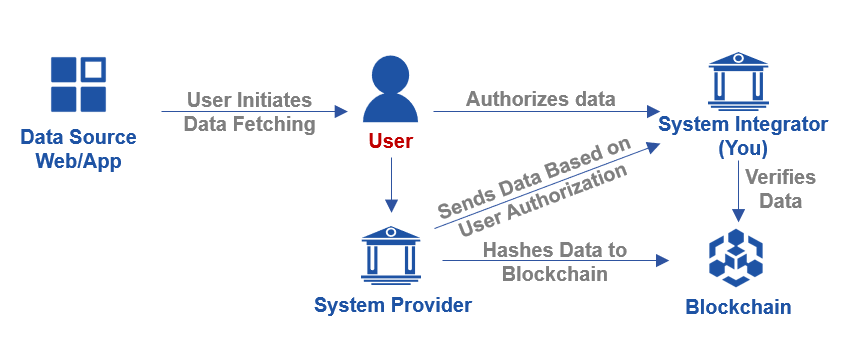
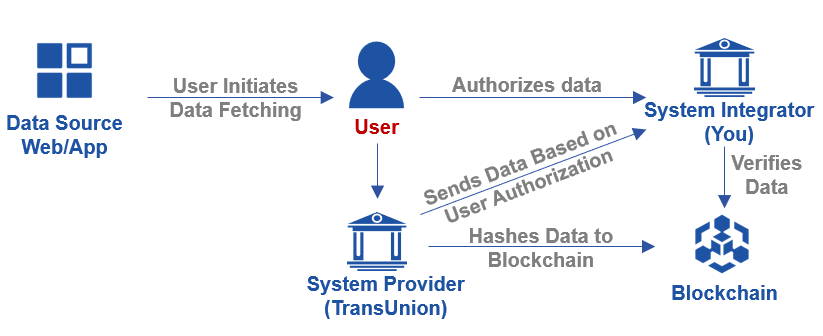
- Update Org

diff --git a/README.md b/README.md
@@ -6,15 +6,15 @@ Nowadays, it is difficult for individual users to effectively ensure the authent
 
 ## Terminology
 
-| **Terminology** | **Meaning**                                                                                                                           |
-| --------------------- | ------------------------------------------------------------------------------------------------------------------------------------------- |
-| DECS                  | Abbreviation for Data Express Chain System                                                                                                  |
+| **Terminology** | **Meaning**                                                                                                         |
+| --------------------- | ------------------------------------------------------------------------------------------------------------------------- |
+| DECS                  | Abbreviation for Data Express Chain System                                                                                |
 | Data Fetching         | The procedure that user login to the official website or application, download and authorize the specified data to you |
-| System Provider       | Organization to deploy and run DECS                                                                                                        |
-| System User           | User of DECS to conduct data fetching                                                                                                       |
-| Trusted Environment   | Remote clean and trusted software environment where data fetching is done                                                                   |
-| VDI                   | The specific Virtual Machine of a trusted environment                                                                                       |
-| Success Page          | The page after a successful data fetching, provided by you                                                                    |
-| Failure Page          | The page after a failed data fetching, provided by you                                                                       |
-| Original-File         | The original data file acquired directly from data source                                                                                   |
-| Original-File-Parsing | Parsing the Original-File into readable json format (Parsed-File)                                                                          |
+| System Provider       | Organization to deploy and run DECS (e.g. TransUnion)                                                                    |
+| System User           | User of DECS to conduct data fetching                                                                                     |
+| Trusted Environment   | Remote clean and trusted software environment where data fetching is done                                                 |
+| VDI                   | The specific Virtual Machine of a trusted environment                                                                     |
+| Success Page          | The page after a successful data fetching, provided by you                                                                |
+| Failure Page          | The page after a failed data fetching, provided by you                                                                   |
+| Original-File         | The original data file acquired directly from data source                                                                 |
+| Original-File-Parsing | Parsing the Original-File into readable json format (Parsed-File)                                                        |

diff --git a/en/README.md b/en/README.md
@@ -10,7 +10,7 @@ Nowadays, it is difficult for individual users to effectively ensure the authent
 | --------------------- | ------------------------------------------------------------------------------------------------------------------------- |
 | DECS                  | Abbreviation for Data Express Chain System                                                                                |
 | Data Fetching         | The procedure that user login to the official website or application, download and authorize the specified data to you |
-| System Provider       | Organization to deploy the DECS system                                                                                    |
+| System Provider       | Organization to deploy the DECS system (e.g. TransUnion)                                                                  |
 | System User           | User of DECS to conduct data fetching                                                                                     |
 | Trusted Environment   | Remote clean and trusted software environment where data fetching is done                                                 |
 | VDI                   | The specific Virtual Machine of a trusted environment                                                                     |
